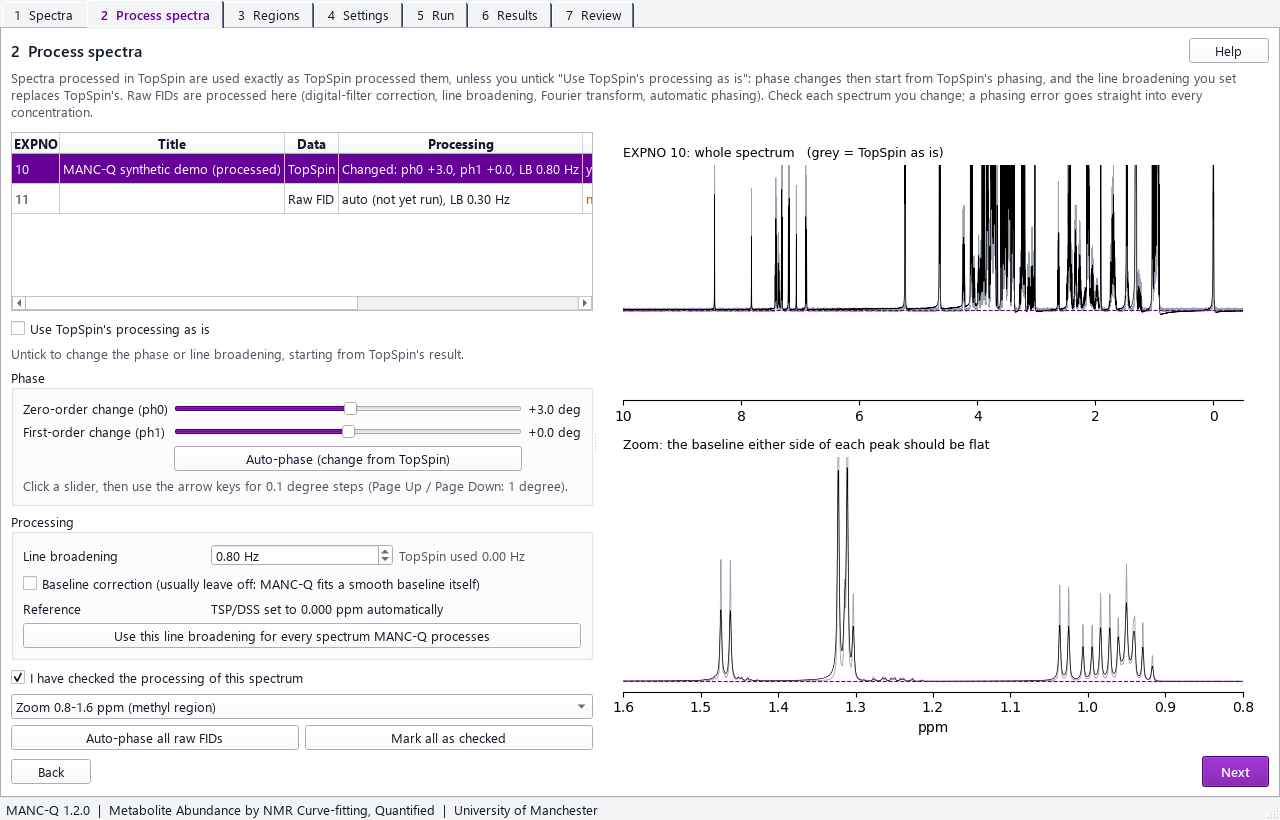
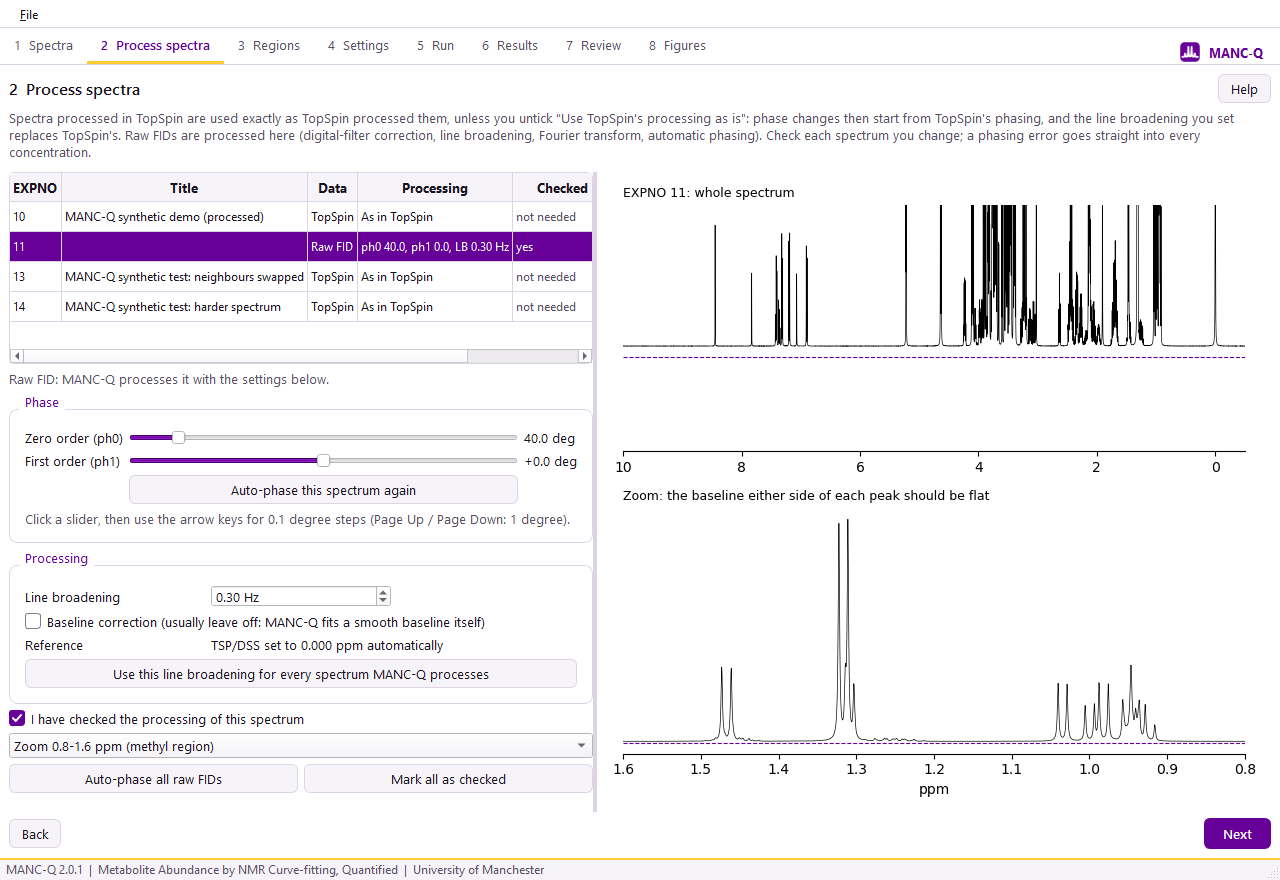
MANC-Q 2.0.1: quick start screenshots retaken from 2.0
The 8 step screenshots in mancq/help/images now show the 2.0 window (File
menu, results-folder warning, dilution file/paste buttons, QC: check label),
taken from the synthetic demo in light mode at 1280 x 880.

Changed region(s): [[0.0, 0.0, 1.0, 1.0], [0.1875, 0.0, 0.5625, 0.061]]

diff --git a/CHANGES.md b/CHANGES.md
@@ -2,6 +2,10 @@
 
 Each version is kept in its own folder. Every change, however small, gets a new version number.
 
+## 2.0.1 (20 October 2026)
+
+The quick start screenshots (mancq/help/images, also shown by the window's Help and the README) are retaken from MANC-Q 2.0.1 with the synthetic demo. They now show the File menu, the warning when the results folder already has results, the "Load from a file..." and "Paste from Excel" dilution buttons, all four demo spectra and the "QC: check" label above EXPNO 14 in Results. They are 1280 x 880 pixels (the window cannot be shorter any more). Nothing in the calculation has changed.
+
 ## 2.0.0 (20 October 2026)
 
 MANC-Q 2.0 brings together the fixes from the review of 1.8.0 (versions 1.8.1 to 1.11.1 below). In short:
